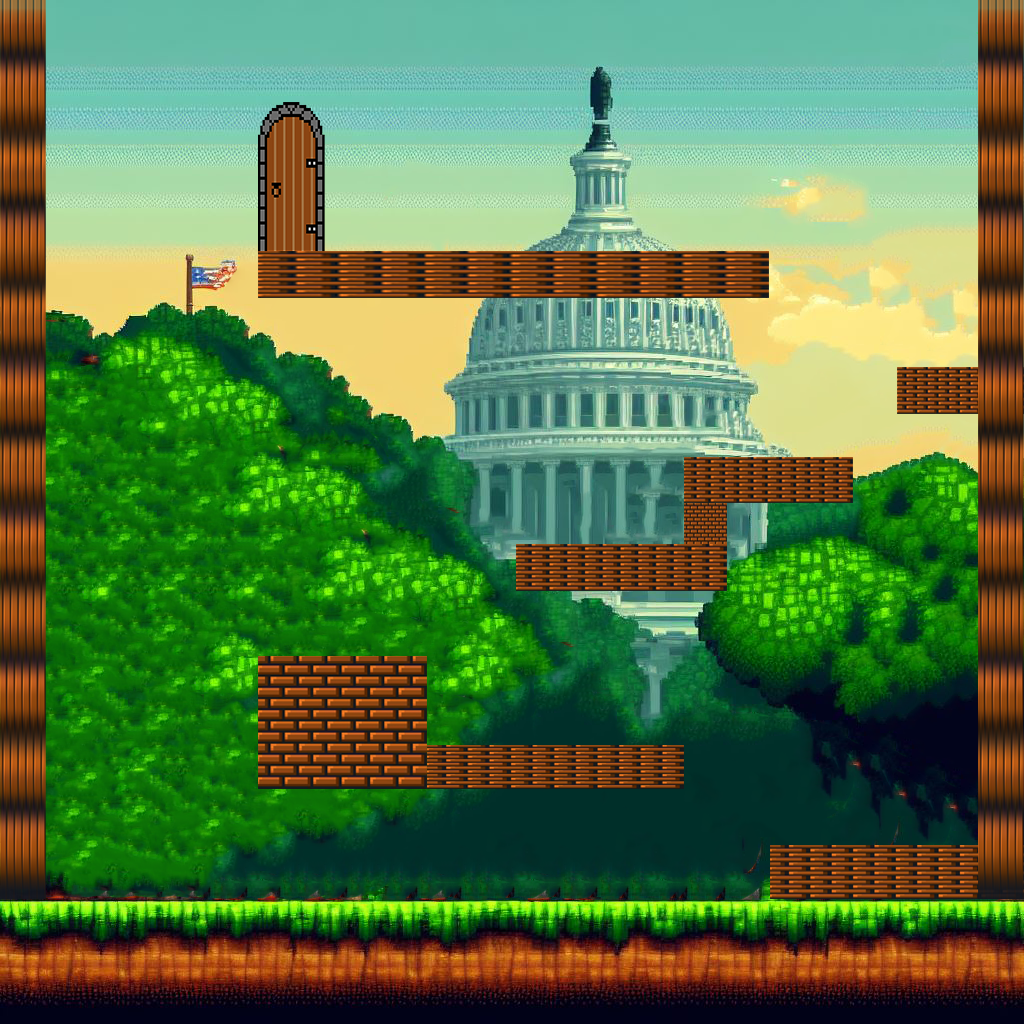
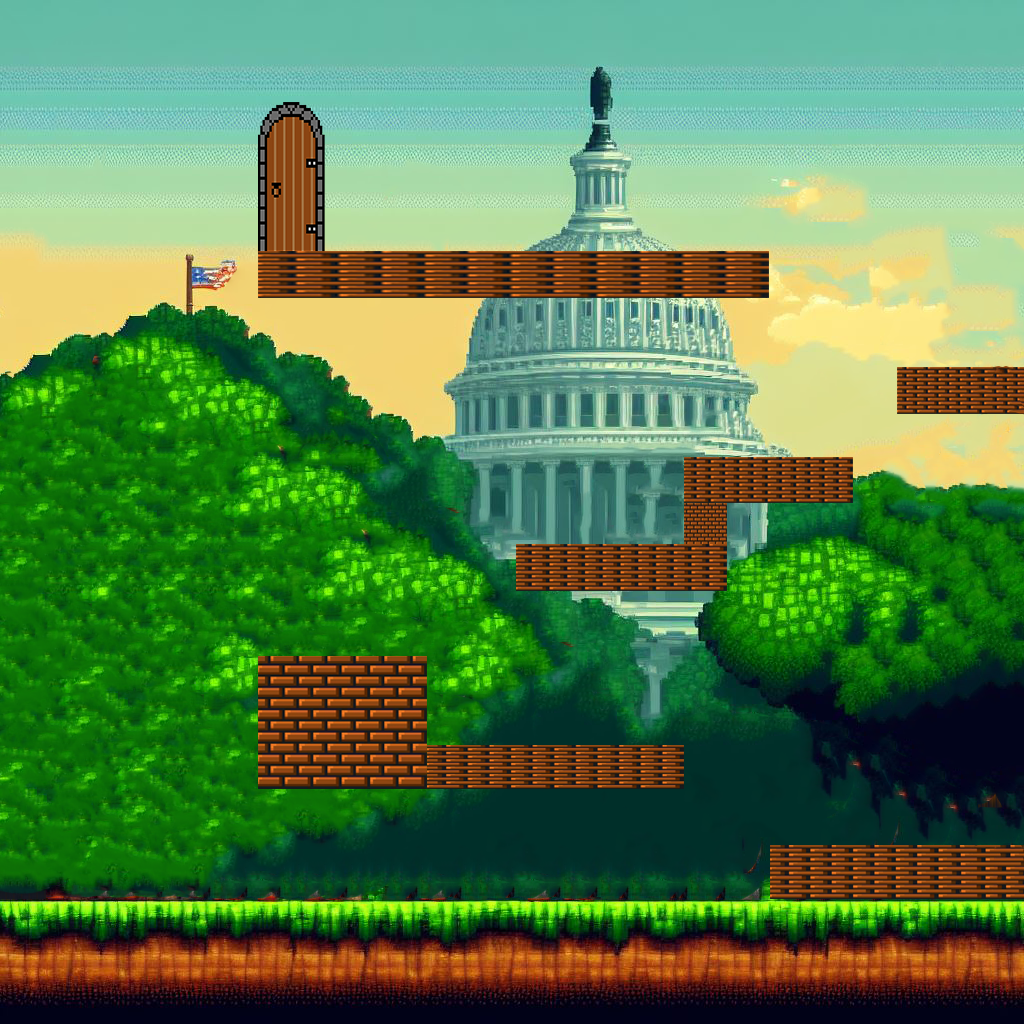
added new levels images

Changed region(s): [[0.8438, 0.0, 1.0, 0.9062], [0.0, 0.0, 0.0938, 0.875]]

diff --git a/level4.cpp b/level4.cpp
@@ -1,9 +1,9 @@
-#include "level2.h"
+#include "level4.h"
 
-Level2::Level2(QString background) : Level(background, QPoint(10, -60)) {
+Level4::Level4(QString background) : Level(background, QPoint(10, -60)) {
     // Create levels question
 
-    Door door(QPoint(7, -106), "Which British general was defeated by American forces in the Saratoga campaign of 1777?", &worldState);
+    Door door(QPoint(91, -106), "Which British general was defeated by American forces in the Saratoga campaign of 1777?", &worldState);
     door.insertQuesionResponse("Charles Cornwallis", false);
     door.insertQuesionResponse("John Burgoyne", true);
     door.insertQuesionResponse("William Howe", false);
@@ -17,33 +17,33 @@ Level2::Level2(QString background) : Level(background, QPoint(10, -60)) {
 
     createCollisionObject(0., -111., 120., 5.);
     createCollisionObject(-1., -111., 1., 115.);
-
-
-    createCollisionObject(29., -107., 20., 13.);
-
-    // New level
-
-    createCollisionObject(66., -20., 13., 4.);
-
-    createCollisionObject(0., -70., 30., 5.);
-    createCollisionObject(25., -70., 5., 10.);
-    createCollisionObject(25., -59., 30., 5.);
-    createCollisionObject(40., -54., 64., 5.);
-    createCollisionObject(60., -49., 19., 10.);
-
-    createCollisionObject(0., -30., 52., 4.);
-    createCollisionObject(72., -50., 7., 30.);
-
-    createCollisionObject(85., -82., 30., 4.);
-
-    createCollisionObject(60., -83., 7., 30.);
-    createCollisionObject(60., -90., 12., 6.);
-
-
     createCollisionObject(120., -111., 1., 115.);
+
+
+    // createCollisionObject(29., -107., 20., 13.);
+
+    // createCollisionObject(66., -20., 13., 4.);
+
+    // createCollisionObject(0., -70., 30., 5.);
+    // createCollisionObject(25., -70., 5., 10.);
+    // createCollisionObject(25., -59., 30., 5.);
+    // createCollisionObject(40., -54., 64., 5.);
+    // createCollisionObject(60., -49., 19., 10.);
+
+    // createCollisionObject(0., -30., 52., 4.);
+    // createCollisionObject(72., -50., 7., 30.);
+
+    // createCollisionObject(85., -82., 30., 4.);
+
+    // createCollisionObject(60., -83., 7., 30.);
+    // createCollisionObject(60., -90., 12., 6.);
+
+    createCollisionObject(0., -111., 10., 17.);
+
+    createCollisionObject(36., -111., 7., 57.);
 }
 
-void Level2::renderCustom(QPainter *painter) {
+void Level4::renderCustom(QPainter *painter) {
     if (isInDialog)
         return;
 
@@ -62,3 +62,4 @@ void Level2::renderCustom(QPainter *painter) {
 
     painter->restore();
 }
+

diff --git a/level3.cpp b/level3.cpp
@@ -1,9 +1,9 @@
-#include "level2.h"
+#include "level3.h"
 
-Level2::Level2(QString background) : Level(background, QPoint(10, -60)) {
+Level3::Level3(QString background) : Level(background, QPoint(10, -60)) {
     // Create levels question
 
-    Door door(QPoint(7, -106), "Which British general was defeated by American forces in the Saratoga campaign of 1777?", &worldState);
+    Door door(QPoint(91, -106), "Which British general was defeated by American forces in the Saratoga campaign of 1777?", &worldState);
     door.insertQuesionResponse("Charles Cornwallis", false);
     door.insertQuesionResponse("John Burgoyne", true);
     door.insertQuesionResponse("William Howe", false);
@@ -17,33 +17,33 @@ Level2::Level2(QString background) : Level(background, QPoint(10, -60)) {
 
     createCollisionObject(0., -111., 120., 5.);
     createCollisionObject(-1., -111., 1., 115.);
-
-
-    createCollisionObject(29., -107., 20., 13.);
-
-    // New level
-
-    createCollisionObject(66., -20., 13., 4.);
-
-    createCollisionObject(0., -70., 30., 5.);
-    createCollisionObject(25., -70., 5., 10.);
-    createCollisionObject(25., -59., 30., 5.);
-    createCollisionObject(40., -54., 64., 5.);
-    createCollisionObject(60., -49., 19., 10.);
-
-    createCollisionObject(0., -30., 52., 4.);
-    createCollisionObject(72., -50., 7., 30.);
-
-    createCollisionObject(85., -82., 30., 4.);
-
-    createCollisionObject(60., -83., 7., 30.);
-    createCollisionObject(60., -90., 12., 6.);
-
-
     createCollisionObject(120., -111., 1., 115.);
+
+
+    // createCollisionObject(29., -107., 20., 13.);
+
+    // createCollisionObject(66., -20., 13., 4.);
+
+    // createCollisionObject(0., -70., 30., 5.);
+    // createCollisionObject(25., -70., 5., 10.);
+    // createCollisionObject(25., -59., 30., 5.);
+    // createCollisionObject(40., -54., 64., 5.);
+    // createCollisionObject(60., -49., 19., 10.);
+
+    // createCollisionObject(0., -30., 52., 4.);
+    // createCollisionObject(72., -50., 7., 30.);
+
+    // createCollisionObject(85., -82., 30., 4.);
+
+    // createCollisionObject(60., -83., 7., 30.);
+    // createCollisionObject(60., -90., 12., 6.);
+
+    createCollisionObject(0., -111., 10., 17.);
+
+    createCollisionObject(36., -111., 7., 57.);
 }
 
-void Level2::renderCustom(QPainter *painter) {
+void Level3::renderCustom(QPainter *painter) {
     if (isInDialog)
         return;
 

diff --git a/level.cpp b/level.cpp
@@ -66,15 +66,15 @@ void Level::render(QPainter *painter) {
 
     // walls
     painter->setBrush(Qt::red);
-    // for (const Wall& wall : collisionObjects)
-    //     painter->drawRect(wall.x * SCALE_FACTOR, wall.y * SCALE_FACTOR, wall.width * SCALE_FACTOR, wall.height * SCALE_FACTOR);
+    for (const Wall& wall : collisionObjects)
+        painter->drawRect(wall.x * SCALE_FACTOR, wall.y * SCALE_FACTOR, wall.width * SCALE_FACTOR, wall.height * SCALE_FACTOR);
 
     // door
     painter->setBrush(Qt::green);
     Door door = doors.at(0);
 
     b2Vec2 doorPosition = SCALE_FACTOR * door.getTopLeft();
-    //painter->drawRect(doorPosition.x, doorPosition.y, door.width * SCALE_FACTOR, door.height * SCALE_FACTOR);
+    painter->drawRect(doorPosition.x, doorPosition.y, door.width * SCALE_FACTOR, door.height * SCALE_FACTOR);
 }
 
 void Level::onDoorCollisionState() {

diff --git a/level1.cpp b/level1.cpp
@@ -19,12 +19,12 @@ Level1::Level1(QString background) : Level(background, QPoint(2, -80)) {
     doors.append(door);
 
     createCollisionObject(0., -111., 100., 5.);
-    createCollisionObject(0., -111., 5., 115.);
+    createCollisionObject(-1., -111., 1., 115.);
 
     createCollisionObject(90., -109., 40., 10.);
 
     createCollisionObject(30., -90., 50., 2.);
-    //createCollisionObject(30., -90., 5., 50.);
+
     createCollisionObject(30., -87., 20., 10.);
 
     createCollisionObject(60., -69., 20., 5.);
@@ -34,7 +34,7 @@ Level1::Level1(QString background) : Level(background, QPoint(2, -80)) {
     createCollisionObject(105., -48., 20., 5.);
     createCollisionObject(30., -35., 60., 5.);
 
-    createCollisionObject(115., -111., 5., 115.);
+    createCollisionObject(120., -111., 1., 115.);
 }
 
 void Level1::renderCustom(QPainter *painter) {

diff --git a/model.cpp b/model.cpp
@@ -3,6 +3,8 @@
 #include "contactlistener.h"
 #include "level1.h"
 #include "level2.h"
+#include "level3.h"
+#include "level4.h"
 
 Model::Model(QWidget *parent)
     : QWidget(parent), scene(640, 480), painter(), elapsedTimer(), windowDimensions(0., 0.)
@@ -17,7 +19,15 @@ Model::Model(QWidget *parent)
     levels.append(level2);
     setupLevel(level2);
 
-    currentLevel = level1;
+    Level3 *level3 = new Level3(":/level3");
+    levels.append(level3);
+    setupLevel(level3);
+
+    Level4 *level4 = new Level4(":/level4");
+    levels.append(level4);
+    setupLevel(level4);
+
+    currentLevel = level4;
 
     //emit showInitialContextDialogue();
 	connect(&worldTimer, &QTimer::timeout, this, &Model::worldStep);

diff --git a/level3.h b/level3.h
@@ -1,0 +1,13 @@
+#ifndef LEVEL3_H
+#define LEVEL3_H
+
+#include "level.h"
+
+class Level3 : public Level
+{
+public:
+    Level3(QString background);
+    void renderCustom(QPainter *painter) override;
+};
+
+#endif // LEVEL3_H

diff --git a/level4.h b/level4.h
@@ -1,0 +1,13 @@
+#ifndef LEVEL4_H
+#define LEVEL4_H
+
+#include "level.h"
+
+class Level4 : public Level
+{
+public:
+    Level4(QString background);
+    void renderCustom(QPainter *painter) override;
+};
+
+#endif // LEVEL3_H
